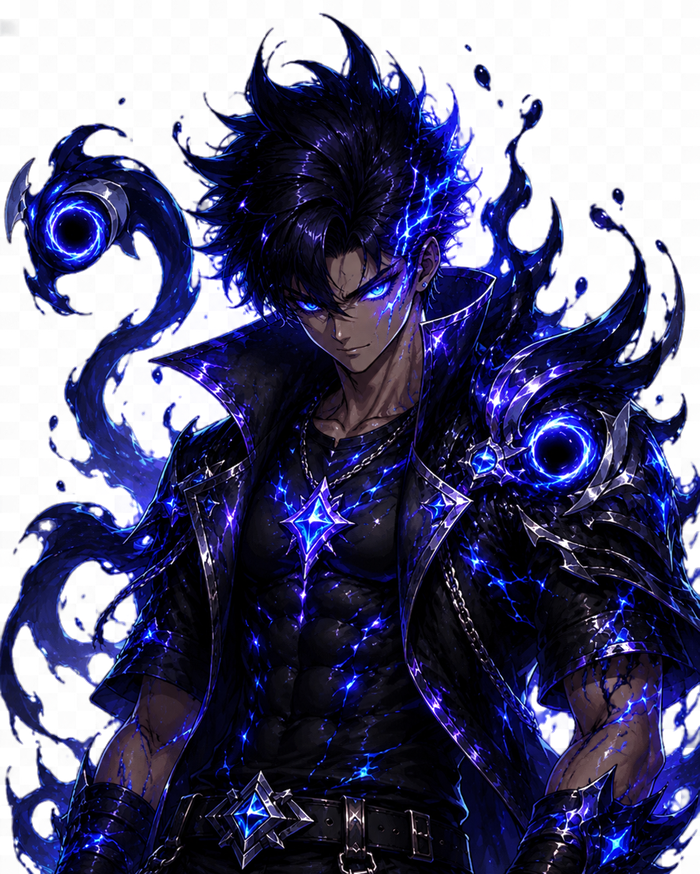
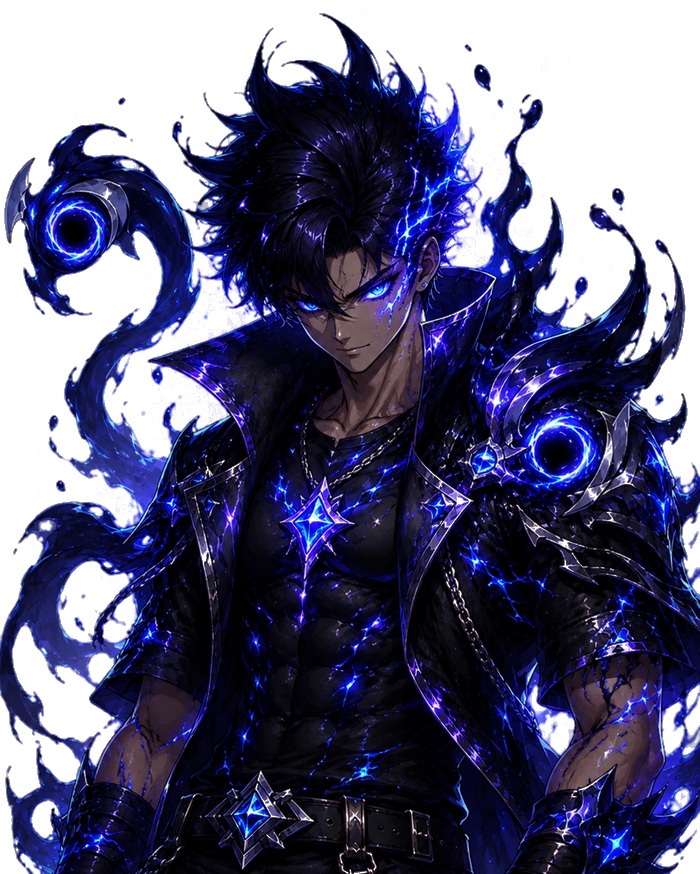
Add files via upload

diff --git a/www/index.html b/www/index.html
@@ -241,7 +241,7 @@ body{
 }
 .mascot-avatar{
   position:relative;
-  flex-shrink:0;width:76px;height:76px;border-radius:16px;
+  flex-shrink:0;width:76px;height:76px;border-radius:50%;
   background:var(--bg-elev);border:1px solid var(--card-border);
   display:flex;align-items:center;justify-content:center;color:var(--text-faint);
   overflow:visible;cursor:pointer;
@@ -291,7 +291,7 @@ body{
 }
 .xp-bar-label{font-size:10px;color:var(--text-faint);margin-top:4px;letter-spacing:.3px;}
 
-.mascot-avatar.level-up-glow{animation:levelUpGlow 1.1s ease;border-radius:14px;}
+.mascot-avatar.level-up-glow{animation:levelUpGlow 1.1s ease;border-radius:50%;}
 .mascot-avatar.level-up-glow::after{
   content:'';position:absolute;inset:-14px;border-radius:50%;z-index:0;pointer-events:none;
   background:radial-gradient(circle, rgba(255,176,32,.55) 0%, rgba(255,176,32,.22) 40%, transparent 72%);
@@ -360,16 +360,8 @@ body{
    skin is equipped, so each unlocked skin feels distinct — not just a
    recolor. --skin-aura is set inline per skin (JS) as an rgba color. */
 .mascot-avatar{--skin-aura:transparent;}
-.mascot-avatar.skin-glow::before{
-  content:'';position:absolute;inset:-11px;border-radius:50%;z-index:0;pointer-events:none;
-  box-shadow:0 0 18px 4px var(--skin-aura);
-  animation:skinAuraPulse 2.4s ease-in-out infinite;
-}
-.mascot-avatar.skin-glow.skin-glow-strong::before{animation-duration:1.7s;box-shadow:0 0 24px 6px var(--skin-aura);}
-@keyframes skinAuraPulse{
-  0%,100%{opacity:.5;transform:scale(1);}
-  50%{opacity:1;transform:scale(1.1);}
-}
+.mascot-avatar.skin-glow{box-shadow:0 0 14px 3px var(--skin-aura);}
+.mascot-avatar.skin-glow.skin-glow-strong{box-shadow:0 0 20px 5px var(--skin-aura);}
 .mascot-skin-accessory{
   position:absolute;top:-8px;right:-8px;z-index:2;
   width:26px;height:26px;font-size:26px;line-height:1;
